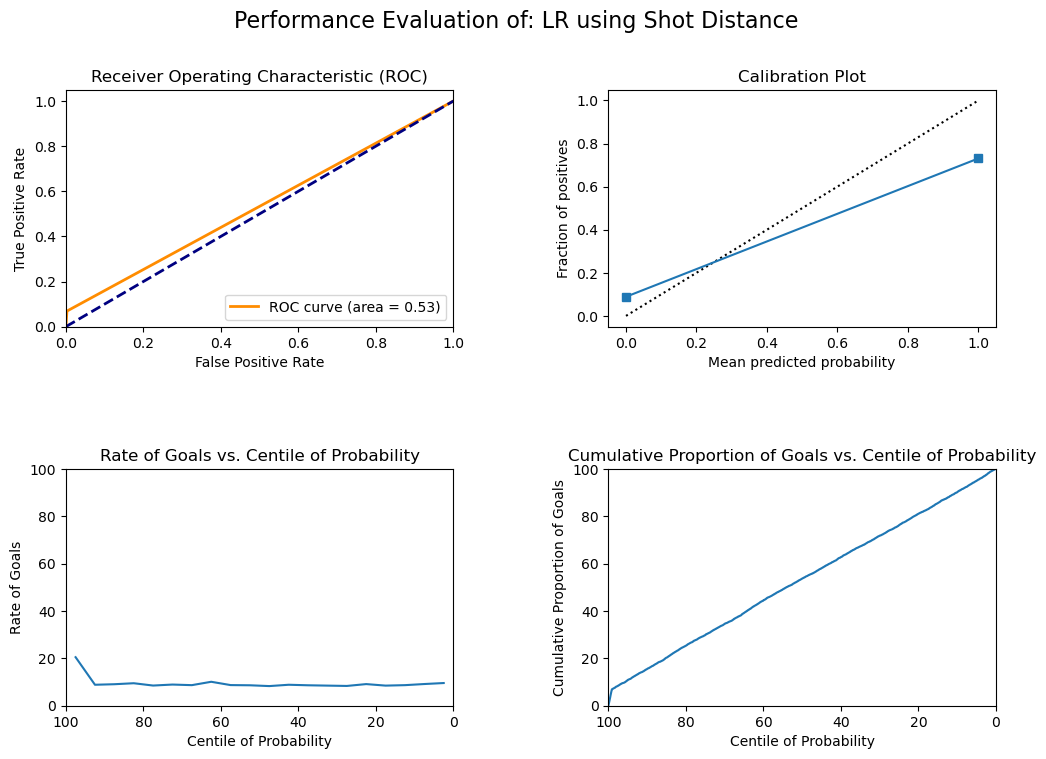
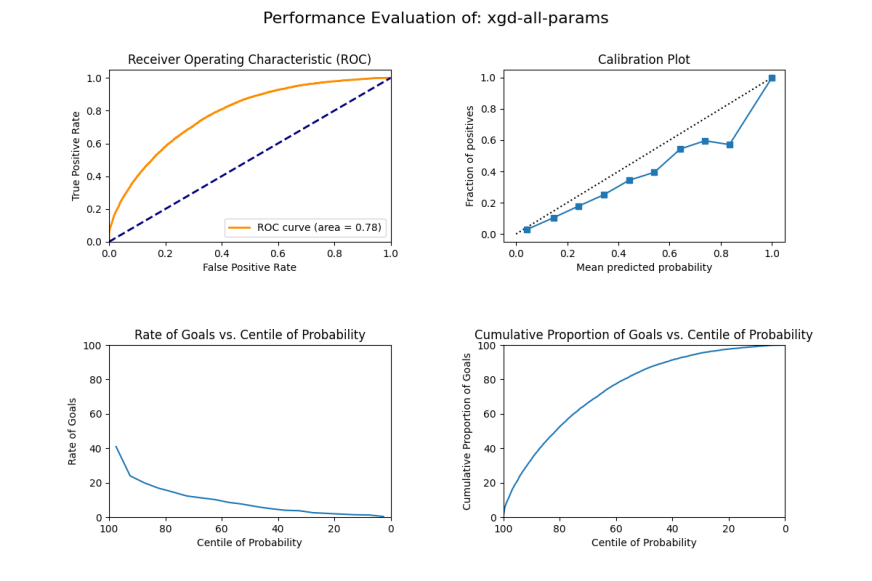
avancement_question5

diff --git a/_posts/2023-11-12-milestone2.md b/_posts/2023-11-12-milestone2.md
@@ -107,16 +107,24 @@ On peut voir dans le tableau suivant la decription des colonnes
 
 
 ## Modèles avancés 
-### 1.
+### 1. 
+Dans cette expérience, nous avons entraîné un classificateur XGBoost en utilisant uniquement les caractéristiques de distance et d'angle sur le même ensemble de données. La configuration d'entraînement/validation a suivi une approche standard avec l'ensemble d'entraînement et l'ensemble de validation, sans ajustement des hyperparamètres.
+
+Les résultats obtenus avec XGBoost sont illustré dans cette figure montrant une amélioration significative par rapport à la référence de régression logistique. La courbe ROC AUC obtenue avec XGBoost a démontré un meilleur résultat.
+
 ![](/assets/images/xgboost_dist+angle.png)
 
-
+### 2.
+Avant de faire cette expérience, nous avons utilisé Label Encoding sur les variables catégorielles telles que 'Team', 'OppTeam', 'Shooter', 'Goalie', 'Type', et 'Previous_event_type'. De plus, nous appliquons également l'encodage sur les variables booléennes 'Is_rebound', 'Empty_net', et 'Goal'. En se basant sur la matrice de corrélation, certaines colonnes jugées non pertinentes pour la prédiction, comme 'Time', 'Period', 'X', 'Y', 'Previous_x', 'Previous_y', et 'X_net', sont supprimées.
+Dans cette expérience, nous avons entraîné XGBoost en utilisant toutes les caractériques. Les résultats obtenus sont significativement améliorés par rapport à la configuration précédente utilisant uniquement les caractéristiques d'angle et de distance. Ce qui soulignent l'importance des autres caractéristiques sur la performance du modèle.
 
 ![](/assets/images/xgboost_allfeatures.png)
 
-
-### 2.
-
+Dans la prochaine phase de notre expérimentation, nous avons opté pour une approche plus approfondie en utilisant Grid Search pour déterminer la meilleure combinaison d'hyperparamètres pour notre modèle XGBoost. Les parametres qu'on a exploré sont la profondeur maximale de l'arbre (max_depth), le taux d'apprentissage (learning_rate), et le poids de l'échantillon positif (scale_pos_weight).
+Nous avons utilisé la métrique AUC pour évaluer les performances du modèle. Les résultats obtenus ont été consignés pour chaque combinaison.
+Cette figure montre la performance des quelques combinaisons affirmant que la meilleure combinaison est 
+ {"scale_pos_weight":1.5, "eta":0.1, "n_estimators":400, "max_depth":4} 
+![](/assets/images/combinaison.png)
 
 
 ### 3.
@@ -124,3 +132,31 @@ Les stratégies de sélection de caractéristiques mises en œuvre ont combiné 
 ![](/assets/images/importance_features.png)
 L'application de la méthode SHAP a révélé que les caractéristiques les plus importantes pour la prédiction des résultats de tirs sont, dans l'ordre décroissant d'importance, la distance du tir (shot_distance), l'angle du tir (shot_angle), le temps écoulé depuis le dernier tir (previous_time_since) et le type. En effet, La distance et l'angle du tir et le temps écoulé depuis le dernier tirs'alignent avec les résultats obtenus par la méthode précèdente, soulignant leur importance cruciale. 
 ![](/assets/images/SHAP.png)
+La sélection de caractéristiques par LASSO a montré des informations complémentaires aux résultats obtenus par XGBoost et SHAP. Les caractéristiques communes telles que 'Shot_distance' et 'Shot_angle' semblent jouer un rôle important dans la réussite des tirs, ce qui est cohérent avec les conclusions précédentes.
+
+En particulier, la caractéristique 'Previous_time_since' identifiée par LASSO semble être un facteur important, s'alignant avec les résultats de SHAP. Cela prouve que le temps écoulé depuis le dernier tir est une variable significative pour prédire le succès des tirs.
+
+ Après avoir appliqué ces méthode de sélection, nous avons identifié un ensemble de caractéristiques qui ont joué un rôle prometteur dans la réussite des tirs. Les caractéristiques sélectionnées sont: 
+ 
+ * Game_id
+ * Game_time
+ * Type
+ * Previous_event_type
+ * Previous_time_since
+ * Previous_distance
+ * Speed
+ * Time_since_powp 
+ * Opp_players
+ * X_net
+ * Shot_distance
+ * Shot_angle
+ * Rebound_angle 
+ * Shooter_ratio 
+ * Goalie_ratio
+ * Team_goals
+ * Opp_concedes
+
+ Les quatres figures des résultats de l'entrainement de xgboost sur ces caractériques sont illustrés dans la figure ci dessous.
+
+ ![](/assets/images/xgboost_selectparams.png)
+(Comparaison avec Q2)
